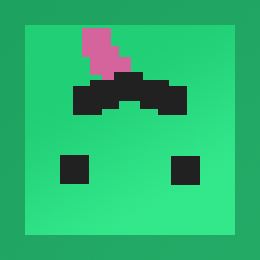
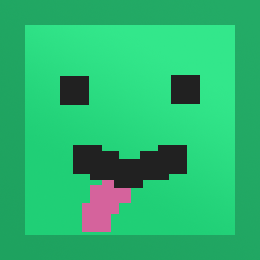
added powerup

Changed region(s): [[0.2154, 0.5538, 0.7692, 0.8923], [0.2154, 0.0923, 0.7692, 0.4615]]

diff --git a/src/Snake.cpp b/src/Snake.cpp
@@ -18,21 +18,22 @@ Snake::Snake(Game *game)
   , delay_{0}
   , rotate_{false}
   , eating_{nullptr}
-  , dying_{nullptr}{
-  eating_ = Mix_LoadWAV(SFX_EATING_FILE);
-  if (!eating_)
-    OnError(fmt::format("Couldn't load file \"{}\": {}", SFX_EATING_FILE, Mix_GetError()).c_str());
-
-  dying_ = Mix_LoadWAV(SFX_DYING_FILE);
-  if (!dying_)
-    OnError(fmt::format("Couldn't load file \"{}\": {}", SFX_DYING_FILE, Mix_GetError()).c_str());
+  , dying_{nullptr}
+  , powerup_{false}
+  , powerup_left_ticks_{0}
+  , powerup_on_{nullptr}
+  , powerup_off_{nullptr} {
+  eating_ = LoadSFX(SFX_EATING_FILE);
+  dying_ = LoadSFX(SFX_DYING_FILE);
+  powerup_on_ = LoadSFX(SFX_POWERUP_ON_FILE);
+  powerup_off_ = LoadSFX(SFX_POWERUP_OFF_FILE);
 
   body_.set_center(0, 0);
   body_.set_size(TILE_SIZE, TILE_SIZE);
 
   head_.set_size(TILE_SIZE, TILE_SIZE);
   head_.set_center(TILE_SIZE / 2, TILE_SIZE / 2);
-  head_.set_rotation(270.0);
+  head_.set_rotation(90.0);
 
   elements_.emplace_back(5, 5);
   elements_.emplace_back(4, 5);
@@ -45,6 +46,18 @@ Snake::~Snake() {
 
 void Snake::Tick(Uint64 time) {
   if ((delay_ += time) >= SPEED) {
+    if (powerup_) {
+      if (time > powerup_left_ticks_) {
+        powerup_ = false;
+        powerup_left_ticks_ = 0;
+        game_->set_powerup(false);
+        Mix_PlayChannel(-1, powerup_off_, 0);
+      } else {
+        powerup_left_ticks_ -= time;
+        game_->RenderPowerupText(powerup_left_ticks_);
+      }
+    }
+
     delay_ -= SPEED;
 
     Element n_pos{elements_[0]};
@@ -65,22 +78,42 @@ void Snake::Tick(Uint64 time) {
     rotate_ = false;
 
     //Interaction
-    if (n_pos.x < 0 || n_pos.x >= FIELD_SIZE_REL ||
-        n_pos.y < 0 || n_pos.y >= FIELD_SIZE_REL) {
+      if (n_pos.x < 0 || n_pos.x >= FIELD_SIZE_REL ||
+          n_pos.y < 0 || n_pos.y >= FIELD_SIZE_REL) {
 #ifdef _DEBUG
-      std::cout << fmt::format("Crossed border! Pos: {} | {}\n", n_pos.x, n_pos.y);
+        std::cout << fmt::format("Crossed border! Pos: {} | {}\n", n_pos.x, n_pos.y);
 #endif
+        if (!powerup_) {
+          Mix_PlayChannel(-1, dying_, 0);
+          game_->EndGame();
+          return;
+        } else {
+          if (n_pos.x < 0)
+            n_pos.x = FIELD_SIZE_REL - 1;
+          else if (n_pos.x >= FIELD_SIZE_REL)
+            n_pos.x = 0;
 
-      Mix_PlayChannel(-1, dying_, 0);
-      game_->EndGame();
-      return;
-    }
+          if (n_pos.y < 0)
+            n_pos.y = FIELD_SIZE_REL - 1;
+          else if (n_pos.y >= FIELD_SIZE_REL)
+            n_pos.y = 0;
+        }
+      }
+
 
     if (n_pos.x == game_->get_food_pos().x && n_pos.y == game_->get_food_pos().y) {
-      Mix_PlayChannel(-1, eating_, 0);
       IncreaseSize();
       game_->RegenFood();
       game_->RenderScore();
+
+      if (game_->get_random_number() % 100 < 10) {
+        powerup_ = true;
+        powerup_left_ticks_ = POWERUP_TIME;
+        game_->set_powerup(true);
+        Mix_PlayChannel(-1, powerup_on_, 0);
+      } else {
+        Mix_PlayChannel(-1, eating_, 0);
+      }
     }
 
     for (size_t i = 1; i < elements_.size(); ++i) {

diff --git a/src/Game.cpp b/src/Game.cpp
@@ -5,6 +5,27 @@
 #include "pch.h"
 #include "Game.h"
 
+void Game::Restart() {
+  snake_ = new Snake(this);
+  RegenFood();
+  RenderScore();
+  pause_ = false;
+  game_over_ = false;
+  set_powerup(false);
+}
+void Game::ToggleStop() {
+  if (!game_over_) {
+    pause_ = !pause_;
+
+    if (pause_) {
+      SDL_Surface *surf = TTF_RenderText_Blended(font_, "Paused", font_color_);
+      score_.set_texture(&surf);
+    } else {
+      RenderScore();
+    }
+  }
+}
+
 Game::Game(SDL_Renderer *renderer)
   : font_{TTF_OpenFont(FONT_FILE, 24)}
   , snake_{nullptr}
@@ -17,7 +38,8 @@ Game::Game(SDL_Renderer *renderer)
   , pause_{false}
   , game_over_{false}
   , highscore_{0}
-  , soundtrack_{nullptr} {
+  , powerup_{false}
+  , powerup_text_(renderer){
   food_.set_center(0, 0);
   food_.set_size(TILE_SIZE, TILE_SIZE);
 
@@ -42,11 +64,6 @@ Game::Game(SDL_Renderer *renderer)
     filestream_.close();
   }
 
-  soundtrack_ = Mix_LoadMUS(MUSIC_FILE);
-  if (!soundtrack_)
-    OnError(fmt::format("Couldn't load file \"{}\": {}", MUSIC_FILE, Mix_GetError()));
-  Mix_PlayMusic(soundtrack_, -1);
-
   Restart();
 }
 Game::~Game() {
@@ -56,6 +73,46 @@ Game::~Game() {
   filestream_.open("./resource/highscore", std::ios::out | std::ios::trunc);
   filestream_ << highscore_ << "\n";
   filestream_.close();
+}
+
+void Game::RenderScore() {
+  int max_length = 0;
+  TTF_SizeText(font_, "Highscore: .....", &max_length, nullptr);
+
+  SDL_Surface *surf = TTF_RenderText_Blended_Wrapped(font_, fmt::format("Score: {}\nHighscore: {}", snake_->get_length(), highscore_).c_str(), font_color_, max_length);
+  score_.set_texture(&surf);
+}
+void Game::RegenFood() {
+  SDL_Point pos{0,0};
+  do {
+    pos.x = static_cast<int>(prng_() % FIELD_SIZE_REL);
+    pos.y = static_cast<int>(prng_() % FIELD_SIZE_REL);
+  } while (!snake_->CheckPosition(pos));
+  food_pos = pos;
+}
+void Game::RenderPowerupText(Uint64 time_left) {
+  int max_size = 0;
+  if (powerup_) {
+    TTF_SizeText(font_, "Powerup activated!", &max_size, nullptr);
+    SDL_Surface *surf = TTF_RenderText_Blended_Wrapped(font_, fmt::format("Powerup activated!\nTime left: {}s", (double)time_left / 100.0).c_str(), font_color_, max_size);
+    powerup_text_.set_texture(&surf);
+
+#ifdef _DEBUG
+    std::cout << "Called with " << time_left << " ticks\n";
+#endif
+  } else {
+    powerup_text_.set_texture((SDL_Texture*)nullptr);
+  }
+}
+void Game::set_powerup(bool val) {
+  powerup_ = val;
+#ifdef _DEBUG
+  if (powerup_)
+    std::cout << "Powerup started!\n";
+  else
+    std::cout << "Powerup ended!\n";
+#endif
+  RenderPowerupText(POWERUP_TIME);
 }
 
 void Game::EndGame() {
@@ -68,6 +125,8 @@ void Game::EndGame() {
 
   if (snake_->get_length() > highscore_)
     highscore_ = snake_->get_length();
+
+  set_powerup(false);
 }
 
 void Game::HandleEvent(SDL_Event *evt) {
@@ -124,4 +183,6 @@ void Game::Render() {
     score_.Render();
   else
     score_.RenderAt(WINDOW_SIZE_X / 2 - score_.get_size().x, WINDOW_SIZE_Y / 2 - score_.get_size().y);
+
+  powerup_text_.RenderAt(WINDOW_SIZE_X - powerup_text_.get_size().x, 0);
 }

diff --git a/header/Game.h b/header/Game.h
@@ -18,7 +18,8 @@ class Game {
 
   Texture field_,
           food_,
-          score_;
+          score_,
+          powerup_text_;
   SDL_Point food_pos;
   bool pause_,
           game_over_;
@@ -26,52 +27,27 @@ class Game {
   Uint32 highscore_;
   std::fstream filestream_;
 
-  Mix_Music *soundtrack_;
+  bool powerup_;
 
-  inline void Restart() {
-    snake_ = new Snake(this);
-    RegenFood();
-    RenderScore();
-    pause_ = false;
-    game_over_ = false;
-  }
-  void ToggleStop() {
-    if (!game_over_) {
-      pause_ = !pause_;
-
-      if (pause_) {
-        SDL_Surface *surf = TTF_RenderText_Blended(font_, "Paused", font_color_);
-        score_.set_texture(&surf);
-      } else {
-        RenderScore();
-      }
-    }
-  }
+  void Restart();
+  void ToggleStop();
 public:
   SDL_Renderer *renderer_;
 
   explicit Game(SDL_Renderer *renderer);
   ~Game();
 
-  inline void RenderScore() {
-    int max_length = 0;
-    TTF_SizeText(font_, "Highscore: .....", &max_length, nullptr);
-
-    SDL_Surface *surf = TTF_RenderText_Blended_Wrapped(font_, fmt::format("Score: {}\nHighscore: {}", snake_->get_length(), highscore_).c_str(), font_color_, max_length);
-    score_.set_texture(&surf);
-  }
-  inline void RegenFood() {
-    SDL_Point pos{0,0};
-    do {
-      pos.x = static_cast<int>(prng_() % FIELD_SIZE_REL);
-      pos.y = static_cast<int>(prng_() % FIELD_SIZE_REL);
-    } while (!snake_->CheckPosition(pos));
-    food_pos = pos;
-  }
   [[nodiscard]] inline SDL_Point get_food_pos() {
     return food_pos;
   }
+  [[nodiscard]] inline std::mt19937::result_type get_random_number() {
+    return prng_();
+  }
 
+  void RenderScore();
+  void RegenFood();
+  void RenderPowerupText(Uint64 time_left);
+  void set_powerup(bool val);
   void EndGame();
 
   void HandleEvent(SDL_Event *evt);

diff --git a/header/Snake.h b/header/Snake.h
@@ -31,7 +31,12 @@ class Snake {
   std::vector<Element> elements_;
 
   Mix_Chunk *dying_,
-            *eating_;
+            *eating_,
+            *powerup_on_,
+            *powerup_off_;
+
+  bool powerup_;
+  Uint64 powerup_left_ticks_;
 
   void IncreaseSize();
 
@@ -50,16 +55,16 @@ public:
     direction_ = dir;
     switch (dir) {
       case Direction::UP:
-        head_.set_rotation(180.0);
+        head_.set_rotation(0.0);
         break;
       case Direction::RIGHT:
-        head_.set_rotation(270.0);
-        break;
-      case Direction::LEFT:
         head_.set_rotation(90.0);
         break;
+      case Direction::LEFT:
+        head_.set_rotation(270.0);
+        break;
       case Direction::DOWN:
-        head_.set_rotation(0.0);
+        head_.set_rotation(180.0);
         break;
     }
     rotate_ = true;

diff --git a/header/misc.h b/header/misc.h
@@ -23,6 +23,7 @@ bool IsDecreasing(Direction d);
 #define TILE_SIZE 20
 
 #define SPEED (Uint64)80
+#define POWERUP_TIME (Uint64)500
 #define FIELD_SIZE_REL 30
 
 #define FONT_FILE "./resource/arial.ttf"
@@ -32,14 +33,16 @@ bool IsDecreasing(Direction d);
 #define SNAKE_FILE "./resource/snake.png"
 #define FOOD_FILE "./resource/food.png"
 
-#define MUSIC_FILE "./resource/music.mp3"
-
 #define SFX_EATING_FILE "./resource/food.mp3"
 #define SFX_DYING_FILE "./resource/died.mp3"
+#define SFX_POWERUP_ON_FILE "./resource/powerup_on.mp3"
+#define SFX_POWERUP_OFF_FILE "./resource/powerup_off.mp3"
 
 
 struct Position {
   double x, y;
 };
+
+Mix_Chunk *LoadSFX(const char *file);
 
 #endif//SNAKE_MISC_H

diff --git a/src/Texture.cpp b/src/Texture.cpp
@@ -30,10 +30,16 @@ void Texture::Load(const char *file) {
 }
 
 void Texture::Render() {
+  if (!texture_)
+    return;
+
   SDL_Rect dest {0, 0, size_.x, size_.y };
   SDL_RenderCopyEx(renderer_, texture_, nullptr, &dest, angle_, &center_, flip_);
 }
 void Texture::RenderAt(int x, int y) {
+  if (!texture_)
+    return;
+
   SDL_Rect dest {x, y, size_.x, size_.y };
   SDL_RenderCopyEx(renderer_, texture_, nullptr, &dest, angle_, &center_, flip_);
 }

diff --git a/src/misc.cpp b/src/misc.cpp
@@ -22,3 +22,10 @@ bool IsIncreasing(Direction d) {
 bool IsDecreasing(Direction d) {
   return d == Direction::LEFT || d == Direction::UP;
 }
+
+Mix_Chunk *LoadSFX(const char *file) {
+  Mix_Chunk *temp = Mix_LoadWAV(file);
+  if (!temp)
+    OnError(fmt::format("Couldn't load file \"{}\": {}", file, Mix_GetError()).c_str());
+  return temp;
+}
